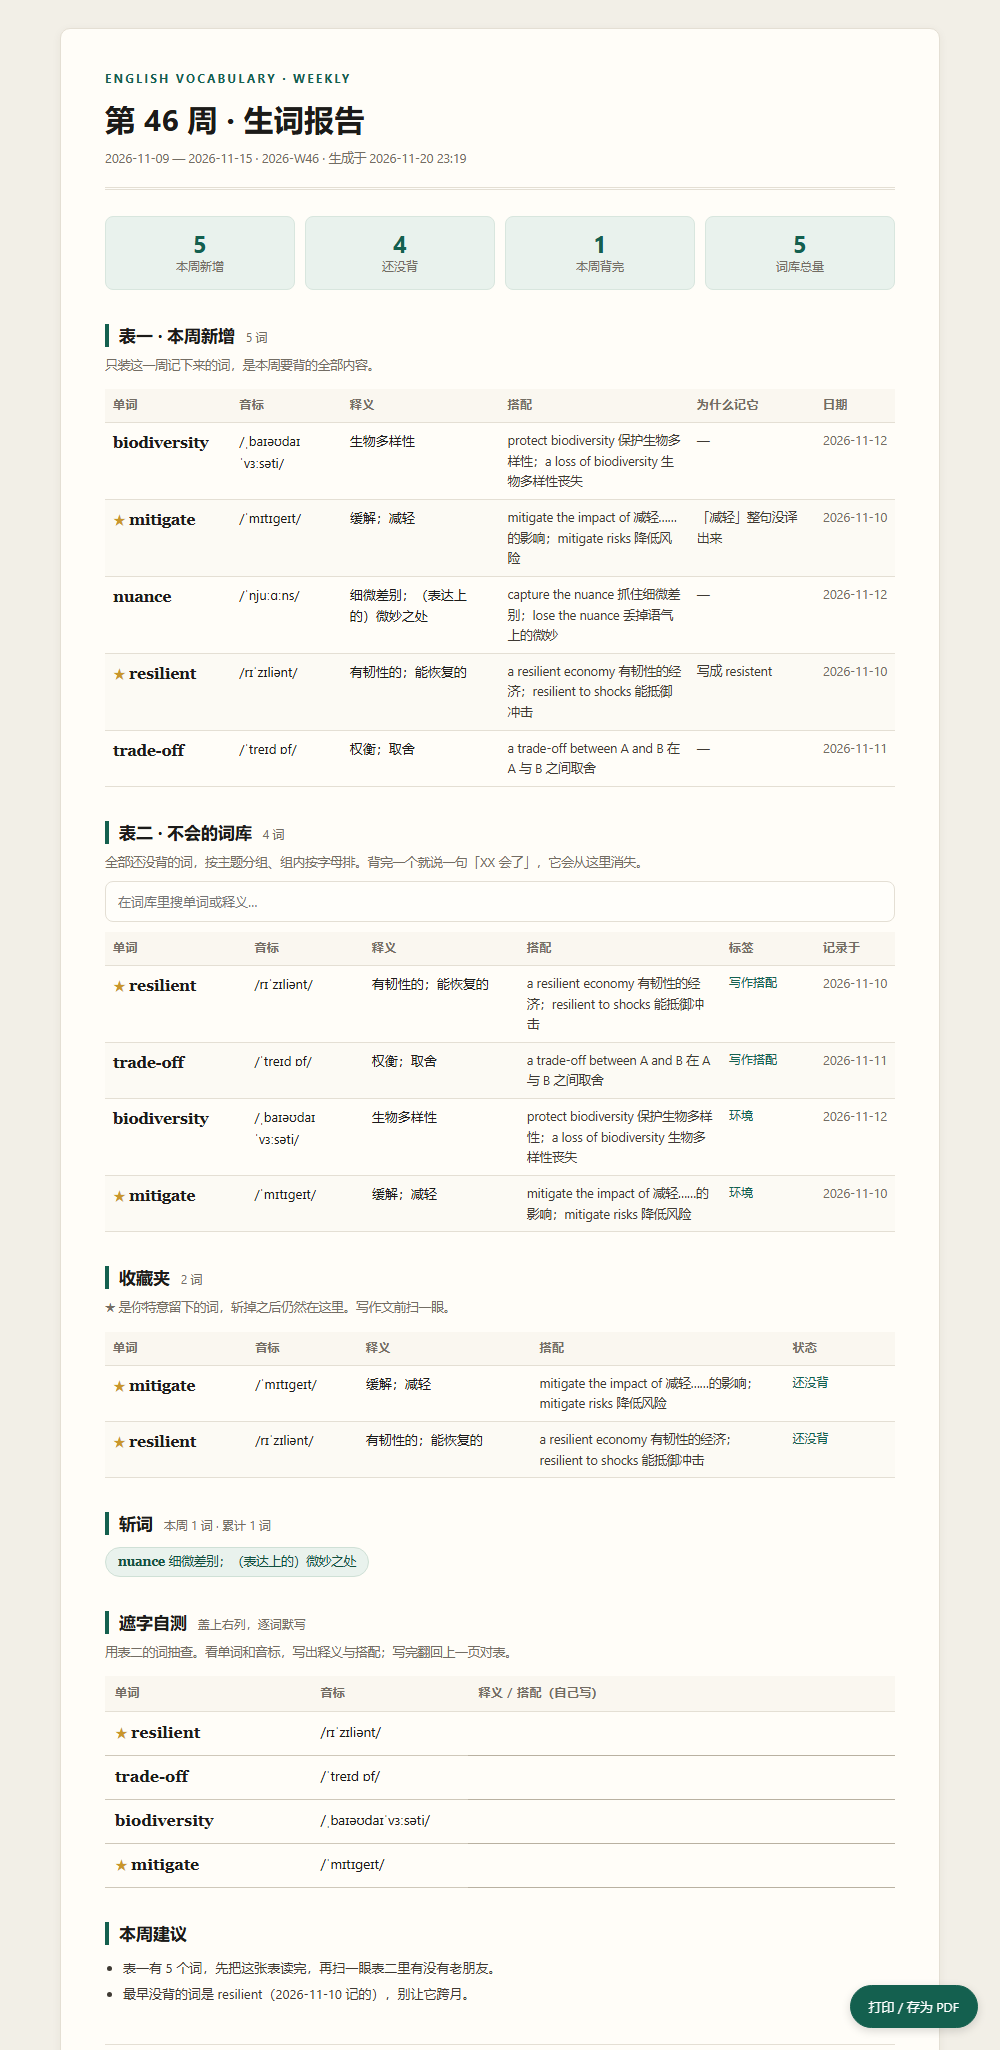
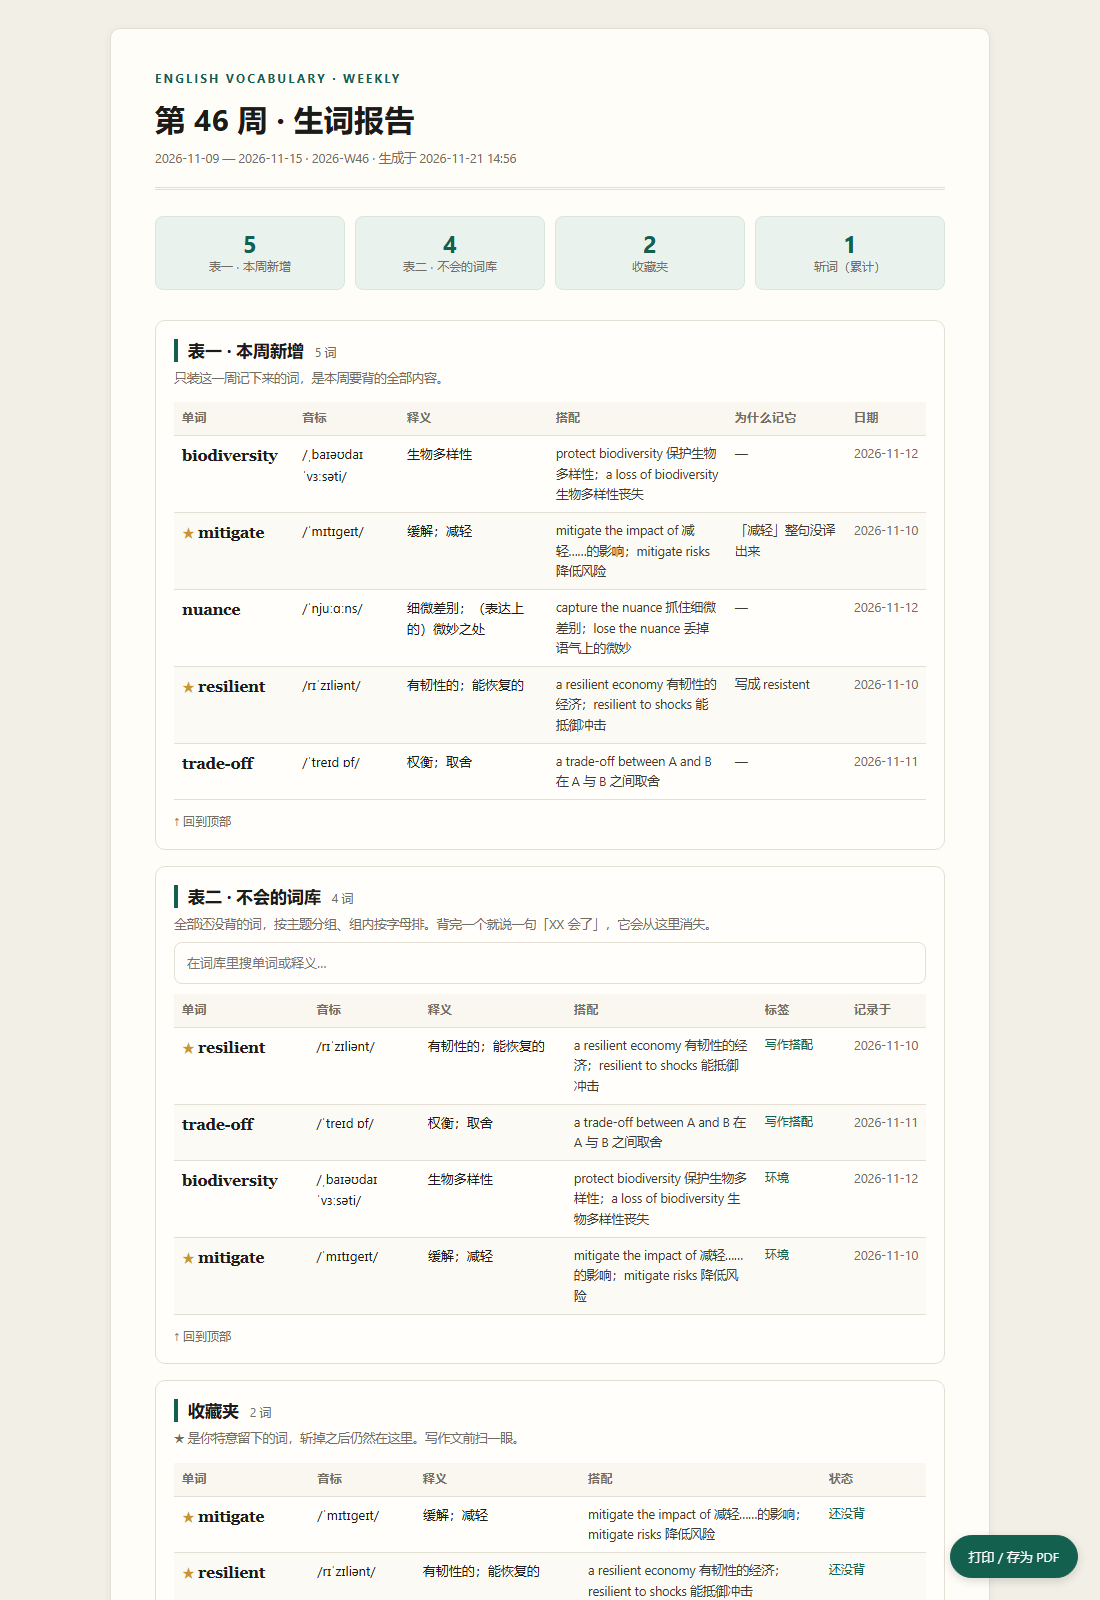
fix: review 点斩后不消失；周报改四区块可跳转；删掉遮字自测与本週建议
- review 页 bug：dataset 用 kill 而过滤器读 learn，导致点了不重排
- 周报拆成四个锚点区块（t1/t2/fav/kill），顶部数字卡即导航，区块内含回顶链接
- 删除遮字自测与本周建议两节
- report 默认周：本周无数据时退回到最近有数据的一周并提示
- SPEC 8.1 更新为四区块 + 导航契约；测试 47 个

diff --git a/vocab.py b/vocab.py
@@ -493,6 +493,12 @@ h1{font-size:30px; margin:6px 0 4px; letter-spacing:.01em; font-weight:700}
 .meta{font-size:12.5px; color:var(--muted)}
 .stats{display:grid; grid-template-columns:repeat(4,1fr); gap:10px; margin:0 0 30px}
 .stat{background:var(--accent-soft); border:1px solid #d8e6de; border-radius:8px; padding:12px 10px; text-align:center}
+a.stat{text-decoration:none; color:inherit; display:block; transition:border-color .15s}
+a.stat:hover{border-color:var(--accent)}
+.sec{border:1px solid var(--line); border-radius:10px; padding:4px 18px 16px; background:#fffefa; margin:0 0 16px; scroll-margin-top:18px}
+.sec h2{margin:14px 0 10px}
+.totop{display:inline-block; margin-top:12px; font-size:12px; color:var(--muted); text-decoration:none}
+.totop:hover{color:var(--accent)}
 .stat .n{font-size:24px; font-weight:700; color:var(--accent); line-height:1.2}
 .stat .l{font-size:11.5px; color:var(--muted); letter-spacing:.04em}
 h2{font-size:17px; margin:34px 0 12px; padding-left:10px; border-left:4px solid var(--accent); line-height:1.35}
@@ -554,6 +560,8 @@ footer{margin-top:40px; padding-top:14px; border-top:1px solid var(--line); font
   .page-break{break-before:page}
   h2{break-after:avoid}
   .card{break-inside:avoid}
+  .sec{border:0; padding:0; margin:0 0 12px}
+  .totop{display:none}
   @page{size:A4; margin:15mm 14mm}
 }
 @media (max-width:640px){
@@ -587,7 +595,6 @@ def render_html(data: dict, monday: date, max_review: int = 60, title: str | Non
     week_words = sorted([w for w in words if in_range(w.get("first_seen"), monday, sunday)],
                         key=lambda w: w["word"].lower())
     open_words = [w for w in words if not w.get("learned")]
-    # 词库表：按标签分组（未分类最后），组内按字母，方便检索
     open_words.sort(key=lambda w: (
         (w.get("tags") or ["未分类"])[0] == "未分类",
         (w.get("tags") or ["未分类"])[0],
@@ -595,7 +602,12 @@ def render_html(data: dict, monday: date, max_review: int = 60, title: str | Non
     ))
     learned_week = sorted([w for w in words if in_range(w.get("learned_at"), monday, sunday)],
                           key=lambda w: w["word"].lower())
+    starred = sorted([w for w in words if w.get("starred")], key=lambda w: w["word"].lower())
+    killed_total = len(words) - len(open_words)
     shown = open_words[:max_review]
+
+    def totop() -> str:
+        return '<a class="totop" href="#top">↑ 回到顶部</a>'
 
     h = []
     h.append("<!DOCTYPE html>")
@@ -604,7 +616,7 @@ def render_html(data: dict, monday: date, max_review: int = 60, title: str | Non
     h.append(f"<title>{esc(title or f'第 {int(wnum)} 周 生词报告')}</title>")
     h.append(f"<style>{CSS}</style></head><body>")
     h.append('<div class="toolbar no-print"><button onclick="window.print()">打印 / 存为 PDF</button></div>')
-    h.append('<div class="page">')
+    h.append('<div class="page" id="top">')
 
     h.append("<header>")
     h.append('<div class="kicker">English Vocabulary · Weekly</div>')
@@ -612,17 +624,19 @@ def render_html(data: dict, monday: date, max_review: int = 60, title: str | Non
     h.append(f'<div class="meta">{monday.isoformat()} — {sunday.isoformat()} · {wk} · 生成于 {now_iso()}</div>')
     h.append("</header>")
 
+    # 四张统计卡本身就是导航，点了直接跳到对应区块
     h.append('<div class="stats">')
-    for num, label in (
-        (len(week_words), "本周新增"),
-        (len(open_words), "还没背"),
-        (len(learned_week), "本周背完"),
-        (len(words), "词库总量"),
+    for anchor, num, label in (
+        ("#t1", len(week_words), "表一 · 本周新增"),
+        ("#t2", len(open_words), "表二 · 不会的词库"),
+        ("#fav", len(starred), "收藏夹"),
+        ("#kill", killed_total, "斩词（累计）"),
     ):
-        h.append(f'<div class="stat"><div class="n">{num}</div><div class="l">{label}</div></div>')
+        h.append(f'<a class="stat" href="{anchor}"><div class="n">{num}</div><div class="l">{label}</div></a>')
     h.append("</div>")
 
-    # ---------------- 表一：本周新增 ----------------
+    # ---------------- 表一 ----------------
+    h.append('<section class="sec" id="t1">')
     h.append(f'<h2>表一 · 本周新增 <span class="count">{len(week_words)} 词</span></h2>')
     h.append('<p class="hint">只装这一周记下来的词，是本周要背的全部内容。</p>')
     if week_words:
@@ -643,8 +657,11 @@ def render_html(data: dict, monday: date, max_review: int = 60, title: str | Non
         h.append("</tbody></table>")
     else:
         h.append('<div class="empty">这周没有新记的词。</div>')
+    h.append(totop())
+    h.append("</section>")
 
-    # ---------------- 表二：不会的词库 ----------------
+    # ---------------- 表二 ----------------
+    h.append('<section class="sec" id="t2">')
     count_txt = (f"{len(shown)} / {len(open_words)} 词（超出上限未列出）"
                  if len(open_words) > len(shown) else f"{len(open_words)} 词")
     h.append(f'<h2>表二 · 不会的词库 <span class="count">{count_txt}</span></h2>')
@@ -680,9 +697,11 @@ def render_html(data: dict, monday: date, max_review: int = 60, title: str | Non
     if len(open_words) > len(shown):
         h.append(f'<p class="hint">另有 {len(open_words) - len(shown)} 个词未列入本期（上限 {max_review}），'
                  f'可用 <code>vocab.py list</code> 查看，或调大 <code>--max-review</code>。</p>')
+    h.append(totop())
+    h.append("</section>")
 
     # ---------------- 收藏夹 ----------------
-    starred = sorted([w for w in words if w.get("starred")], key=lambda w: w["word"].lower())
+    h.append('<section class="sec" id="fav">')
     h.append(f'<h2>收藏夹 <span class="count">{len(starred)} 词</span></h2>')
     h.append('<p class="hint">★ 是你特意留下的词，斩掉之后仍然在这里。写作文前扫一眼。</p>')
     if starred:
@@ -702,9 +721,11 @@ def render_html(data: dict, monday: date, max_review: int = 60, title: str | Non
         h.append("</tbody></table>")
     else:
         h.append('<div class="empty">还没有收藏的词。背的时候觉得「这个写作能用」，说一句「收藏 XX」就行。</div>')
+    h.append(totop())
+    h.append("</section>")
 
     # ---------------- 斩词 ----------------
-    killed_total = len(words) - len(open_words)
+    h.append('<section class="sec" id="kill">')
     h.append(f'<h2>斩词 <span class="count">本周 {len(learned_week)} 词 · 累计 {killed_total} 词</span></h2>')
     if learned_week:
         h.append('<div class="chips">')
@@ -713,47 +734,14 @@ def render_html(data: dict, monday: date, max_review: int = 60, title: str | Non
         h.append("</div>")
     else:
         h.append('<div class="empty">这周还没斩过词。背完说一句「XX 斩了」，它就从表二消失。</div>')
-
-    # ---------------- 遮字自测 ----------------
-    h.append('<h2 class="page-break">遮字自测 <span class="count">盖上右列，逐词默写</span></h2>')
-    h.append('<p class="hint">用表二的词抽查。看单词和音标，写出释义与搭配；写完翻回上一页对表。</p>')
-    if shown:
-        h.append('<table class="quiz"><thead><tr><th style="width:26%">单词</th><th style="width:20%">音标</th>'
-                 '<th style="width:54%">释义 / 搭配（自己写）</th></tr></thead><tbody>')
-        for w in shown:
-            star = '<span class="star">★</span>' if w.get("starred") else ""
-            h.append(
-                f'<tr><td class="w">{star}{esc(w["word"])}</td>'
-                f'<td class="ph">{esc(w.get("phonetic") or "")}</td>'
-                f'<td class="blank"></td></tr>'
-            )
-        h.append("</tbody></table>")
-    else:
-        h.append('<div class="empty">—</div>')
-
-    # ---------------- 建议 ----------------
-    tips = []
-    if week_words:
-        tips.append(f"表一有 {len(week_words)} 个词，先把这张表读完，再扫一眼表二里有没有老朋友。")
-    if len(open_words) > 40:
-        tips.append(f"词库已积到 {len(open_words)} 个，建议每周只新增 10–15 个，否则表二会越来越长。")
-    if not learned_week:
-        tips.append("这周一个词都没标「背过了」。背完说一句，不然表二只会变长。")
-    oldest = min(open_words, key=lambda w: w.get("first_seen") or "9999") if open_words else None
-    if oldest:
-        tips.append(f"最早没背的词是 {oldest['word']}（{oldest.get('first_seen')} 记的），别让它跨月。")
-    if tips:
-        h.append('<h2>本周建议</h2><ul class="tips">')
-        h.extend(f"<li>{esc(t)}</li>" for t in tips)
-        h.append("</ul>")
+    h.append(totop())
+    h.append("</section>")
 
     h.append(f'<footer>由 <code>vocab.py</code> 生成 · 数据源 data/words.json · '
              f'共 {len(words)} 词 · 下期自动生成于每周日 20:00</footer>')
     h.append("</div></body></html>")
     return "\n".join(h)
 
-
-# ---------------------------------------------------------------- 命令：report / weekly
 
 def write_report(data: dict, monday: date, out: Path, max_review: int = 60,
                  title: str | None = None) -> Path:
@@ -779,9 +767,39 @@ def write_report(data: dict, monday: date, out: Path, max_review: int = 60,
     return out
 
 
+def week_has_data(data: dict, monday: date) -> bool:
+    sunday = monday + timedelta(days=6)
+    return any(
+        in_range(w.get("first_seen"), monday, sunday) or in_range(w.get("learned_at"), monday, sunday)
+        for w in data["words"]
+    )
+
+
+def latest_data_week(data: dict) -> date | None:
+    days: list[date] = []
+    for w in data["words"]:
+        for key in ("first_seen", "learned_at"):
+            if w.get(key):
+                try:
+                    days.append(parse_date(w[key]))
+                except Exception:
+                    pass
+    return week_monday(max(days)) if days else None
+
+
 def cmd_report(args) -> int:
     data = load()
-    monday = parse_week(args.week)
+    if args.week:
+        monday = parse_week(args.week)
+    else:
+        monday = week_monday(date.today())
+        # 新用户/示例数据常见情况：本周一条都没记，报告是一张空表。
+        # 这时自动退回到最近有数据的一周，别让人以为坏了。
+        if not week_has_data(data, monday):
+            latest = latest_data_week(data)
+            if latest and latest != monday:
+                print(f"（本周还没有数据，改用最近有数据的一周：{week_key(latest)}）")
+                monday = latest
     out = Path(args.out) if args.out else REPORT_DIR / f"vocab-{week_key(monday)}.html"
     write_report(data, monday, out, args.max_review, args.title)
     print(f"✅ 周报已生成：{out}")
@@ -1060,7 +1078,8 @@ async function act(card, field){
     alert('写入失败：' + e.message);
     return;
   }
-  card.dataset[field] = value ? '1' : '0';
+  const key = field === 'star' ? 'star' : 'learn';
+  card.dataset[key] = value ? '1' : '0';
   const btn = card.querySelector('.act.' + field);
   btn.classList.toggle('on', value);
   btn.textContent = field === 'star' ? (value ? '★' : '☆') : (value ? '斩了' : '斩');

diff --git a/tests/test_render.py b/tests/test_render.py
@@ -38,7 +38,7 @@ class RenderTest(unittest.TestCase):
 
     def test_all_sections_present(self):
         doc = vocab.render_html(build(), WEEK)
-        for heading in ("表一 · 本周新增", "表二 · 不会的词库", "收藏夹", "斩词", "遮字自测", "本周建议"):
+        for heading in ("表一 · 本周新增", "表二 · 不会的词库", "收藏夹", "斩词"):
             self.assertIn(heading, doc, f"缺少小节：{heading}")
 
     def test_week_filter_applies_to_new_words(self):
@@ -58,19 +58,19 @@ class RenderTest(unittest.TestCase):
         w["learned"] = True
         w["learned_at"] = "2026-11-18"
         doc = vocab.render_html(data, WEEK)
-        list_section = doc.split("表二 · 不会的词库", 1)[1].split("收藏夹", 1)[0]
-        quiz = doc.split("遮字自测", 1)[1]
+        list_section = doc.split("id=\"t2\"", 1)[1].split("id=\"fav\"", 1)[0]
         self.assertNotIn("mitigate", list_section)      # 不再出现在待背清单
-        self.assertNotIn("mitigate", quiz)              # 也不再出现在自测表
         self.assertIn("斩词", doc)
-        self.assertIn('<span class="s">mitigate</span>', doc)  # 出现在"本周背完"里
+        self.assertIn('<span class="s">mitigate</span>', doc)  # 出现在"斩词"里
 
-    def test_quiz_has_one_row_per_open_word(self):
-        data = build()
-        doc = vocab.render_html(data, WEEK)
-        quiz = doc.split("遮字自测", 1)[1]
-        open_count = sum(1 for w in data["words"] if not w["learned"])
-        self.assertEqual(quiz.count('class="blank"'), open_count)
+    def test_sections_are_anchored_and_linked(self):
+        doc = vocab.render_html(build(), WEEK)
+        for anchor in ("id=\"t1\"", "id=\"t2\"", "id=\"fav\"", "id=\"kill\""):
+            self.assertIn(anchor, doc)
+        for href in ('href="#t1"', 'href="#t2"', 'href="#fav"', 'href="#kill"'):
+            self.assertIn(href, doc)
+        self.assertNotIn("遮字自测", doc)
+        self.assertNotIn("本周建议", doc)
 
     def test_html_is_escaped(self):
         data = {"words": []}
@@ -100,8 +100,8 @@ class RenderTest(unittest.TestCase):
 
     def test_stats_numbers(self):
         doc = vocab.render_html(build(), WEEK)
-        self.assertIn('<div class="n">1</div><div class="l">本周新增</div>', doc)
-        self.assertIn('<div class="n">2</div><div class="l">词库总量</div>', doc)
+        self.assertIn('<div class="n">1</div><div class="l">表一 · 本周新增</div>', doc)
+        self.assertIn('<div class="n">2</div><div class="l">表二 · 不会的词库</div>', doc)
 
     def test_starred_word_stays_in_favorites_after_kill(self):
         data = build()
@@ -110,7 +110,7 @@ class RenderTest(unittest.TestCase):
         w["learned"] = True
         w["learned_at"] = "2026-11-18"
         doc = vocab.render_html(data, WEEK)
-        fav = doc.split("收藏夹", 1)[1].split("斩词", 1)[0]
+        fav = doc.split("id=\"fav\"", 1)[1].split("id=\"kill\"", 1)[0]
         self.assertIn("mitigate", fav)
         self.assertIn("斩了", fav)
         self.assertIn('<span class="star">★</span>', doc)

diff --git a/SPEC.md b/SPEC.md
@@ -147,21 +147,23 @@ v1 里有一个基于事件计分的掌握度模型（答对 +1、答错 −2、
 
 ### 8.1 必须包含的区块
 
-周报的核心是**两张表**，职责不同：
+周报由四张**互相跳转**的卡片区块组成：
 
-1. **标题区**：周次、日期范围、生成时间。
-2. **概览**：本周新增数、还没背数、本周背完数、词库总量。
-3. **表一 · 本周新增**：只装 `first_seen` 落在本周的词。列：单词、音标、释义、搭配、`note`、日期。
-   —— 这是"这一周要背的东西"，一页纸装得下。
-4. **表二 · 不会的词库**：所有 `learned = false` 的词，是**全量数据库**。列：单词、音标、释义、搭配、标签、记录日期。
-   —— 这是"我到底还有多少不会"，用来翻查和对账，不是用来一次背完的。
-5. **收藏夹**：所有 `starred = true` 的词（无论是否已斩），列：单词、音标、释义、搭配、状态。
-6. **斩词**：`learned_at` 落在本周的词（chips），并给出累计斩词数。
-7. **遮字自测**：只列表二里的词，两列——「单词 + 音标」和留白。
+0. **标题区**：周次、日期范围、生成时间。
+1. **表一 · 本周新增**：只装 `first_seen` 落在本周的词。列：单词、音标、释义、搭配、`note`、日期。
+2. **表二 · 不会的词库**：所有 `learned = false` 的词，全量数据库。列：单词、音标、释义、搭配、标签、记录日期。
+3. **收藏夹**：所有 `starred = true` 的词（无论是否已斩）。列：单词、音标、释义、搭配、状态。
+4. **斩词**：`learned_at` 落在本周的词（chips），并给出累计斩词数。
+
+导航要求：
+
+- 四个区块各有锚点 id（`t1` / `t2` / `fav` / `kill`）；
+- 顶部的数字概览卡本身是链接，点击跳到对应区块；
+- 每个区块末尾提供「回到顶部」链接。
 
 表二在屏幕上应支持**就地筛选**（一个输入框，纯前端过滤，不得联网）。
 
-### 8.2 排序与分组
+### 8.2 排序与分组### 8.2 排序与分组
 
 - 表一：按 `first_seen` 降序（最近的在前），同日期按拼写。
 - 表二：按 `tags[0]` 分组（`未分类` 永远最后），组内按拼写升序——它是要查的表，字母序最好翻。
@@ -172,7 +174,6 @@ v1 里有一个基于事件计分的掌握度模型（答对 +1、答错 −2、
 
 - A4，纵向，页边距约 14 mm。
 - 卡片不得跨页截断（`break-inside: avoid`）。
-- 遮字自测**另起一页**，行高足够手写。
 - 屏幕上可有交互元素（如打印按钮），打印时必须隐藏。
 - 产物必须是**单文件 HTML**：样式内联，不依赖网络、不依赖外部资源。
 
@@ -220,7 +221,7 @@ v1 里有一个基于事件计分的掌握度模型（答对 +1、答错 −2、
 实现方至少要验证：
 
 1. 新词默认 `learned = false`、`learned_at = null`。
-2. `learn` 后该词不再出现在「还没背的」和「遮字自测」里，但出现在「本周背完」。
+2. `learn` 后该词不再出现在表二里，但会出现在「斩词」。
 3. `unlearn` 后回到清单，且 `note` 仍在。
 4. `learn` 一个不存在的词，退出码非 0。
 5. 空账本能渲染出合法 HTML 而不报错。

diff --git a/README.md b/README.md
@@ -162,7 +162,7 @@ python vocab.py review --open
 |---|---|
 | 屏幕背词 | `review`（卡片 + 按钮） |
 | 翻查旧词 | 周报表二（表格，一屏扫十几个） |
-| 打印贴桌上 | 周报 PDF（表一 + 遮字自测） |
+| 打印贴桌上 | 周报 PDF（四张卡片区块） |
 
 ## 每周自动出报告
 
@@ -201,19 +201,20 @@ $ python vocab.py doctor --task VocabLedgerWeekly
 
 ## 报告里有什么
 
-![周报：两张表 + 遮字自测](docs/preview-report.png)
+四张卡片区块，互不干扰，可以互相跳转：
 
-两张表，职责不同：
+1. **表一 · 本周新增** —— 只装这周记的词，一页纸。列：单词 / 音标 / 释义 / 搭配 / 为什么记它 / 日期。
+2. **表二 · 不会的词库** —— 全部还没背的词，按主题分组、组内字母序，页面上可搜索。
+3. **收藏夹** —— ★ 过的词，标着「斩了 / 还没背」。
+4. **斩词** —— 本周斩了几个，累计几个。
 
-**表一 · 本周新增** —— 只装这一周记下来的词，一页纸。列：单词 / 音标 / 释义 / 搭配 / 为什么记它 / 日期。
-这是「这周要背的东西」。
+顶部四个数字卡同时也是导航：点「表二」直接跳到表二，每个区块末尾有「↑ 回到顶部」。
 
-**表二 · 不会的词库** —— 全部还没背的词，是一本可以翻查的数据库。列：单词 / 音标 / 释义 / 搭配 / 标签 / 记录于。
-按主题分组、组内按字母排；屏幕上还能直接搜（纯前端过滤，不联网）。
+> 没数据的那一周不会给你一张空表：如果本周一条都没记，`report` 会自动退回到最近有数据的一周，并在终端提示一句。
 
-再加：**本周背完**、**遮字自测**（另起一页，用表二的词抽查）、**本周建议**。
+### 另一张图
 
-A4 排版，表格不跨页截断，右下角有「打印 / 存为 PDF」。
+![周报：四个区块](docs/preview-report.png)
 
 ## 隐私
 
